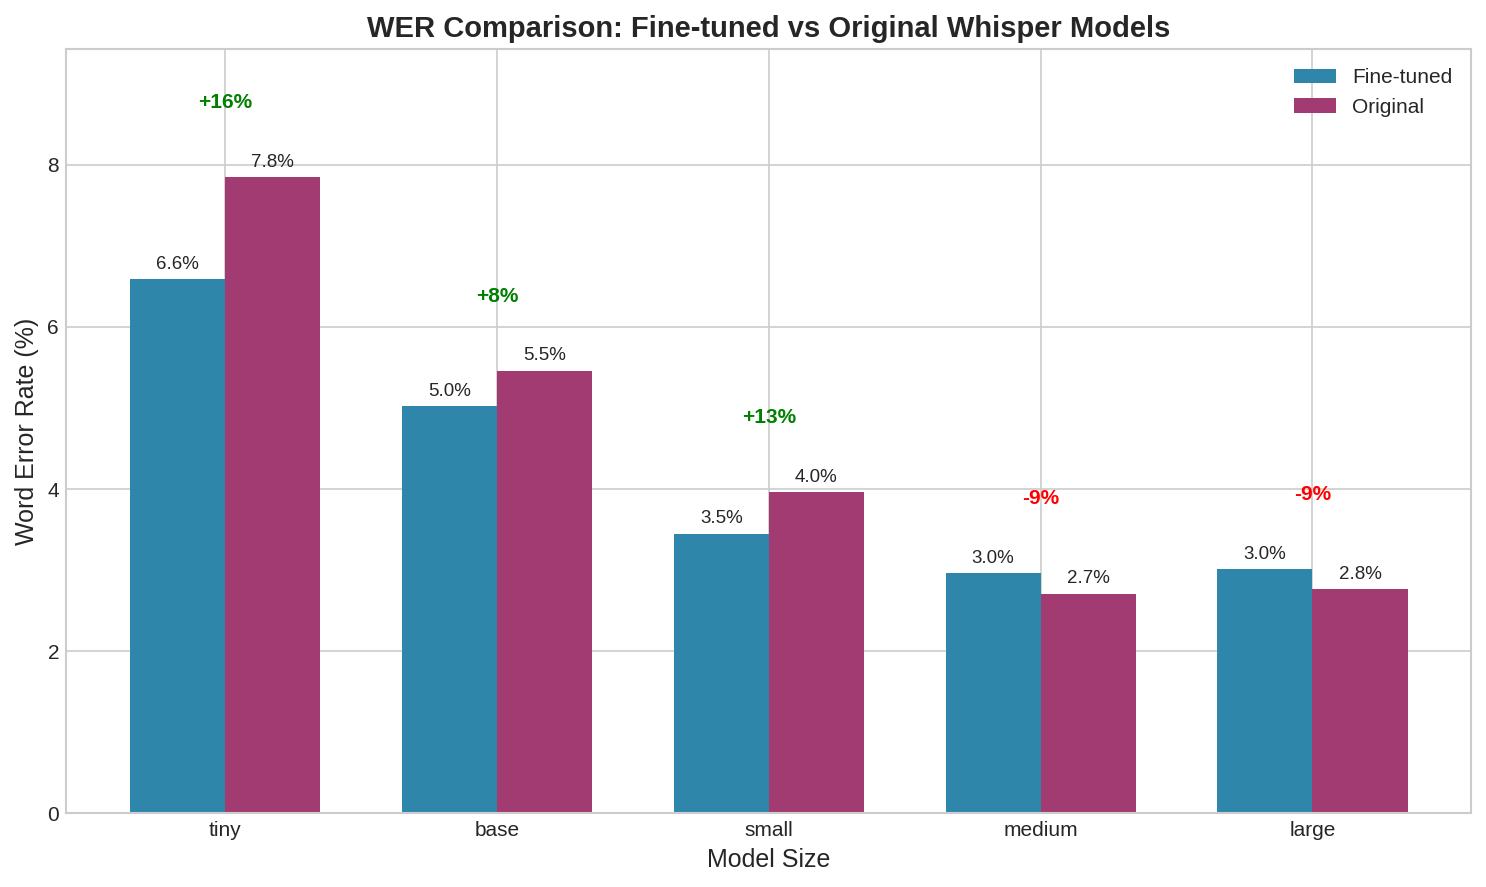
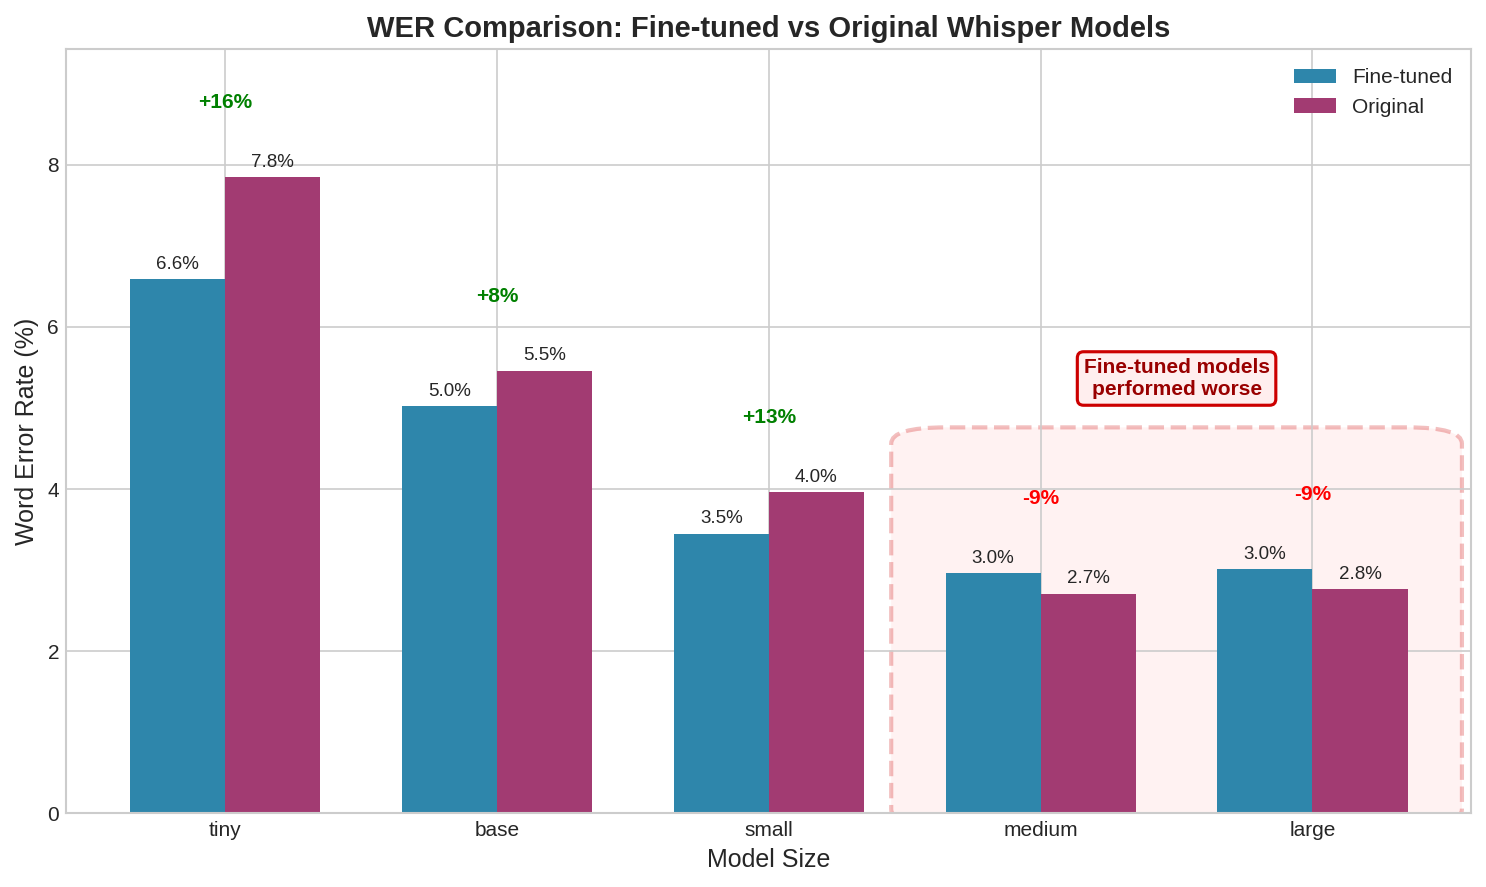
commit

Changed region(s): [[0.6191, 0.3957, 0.9596, 0.487]]

diff --git a/scripts/create_visualizations.py b/scripts/create_visualizations.py
@@ -72,6 +72,35 @@ def create_wer_comparison():
                     ha='center', va='bottom', fontsize=10,
                     fontweight='bold', color=color)
 
+    # Add highlight box over medium and large models (indices 3 and 4)
+    from matplotlib.patches import FancyBboxPatch
+
+    # Calculate box position (spanning medium and large)
+    box_left = 3 - width - 0.15
+    box_right = 4 + width + 0.15
+    box_width = box_right - box_left
+    box_height = max(finetune_wer[3:5] + original_wer[3:5]) + 1.8
+
+    # Add semi-transparent highlight box
+    highlight_box = FancyBboxPatch(
+        (box_left, -0.1), box_width, box_height,
+        boxstyle="round,pad=0.05,rounding_size=0.2",
+        facecolor='#FFCCCC', edgecolor='#CC0000',
+        alpha=0.25, linewidth=2, linestyle='--',
+        zorder=0
+    )
+    ax.add_patch(highlight_box)
+
+    # Add annotation text above the highlight box
+    ax.annotate(
+        'Fine-tuned models\nperformed worse',
+        xy=((3 + 4) / 2, box_height + 0.3),
+        ha='center', va='bottom', fontsize=10,
+        fontweight='bold', color='#990000',
+        bbox=dict(boxstyle='round,pad=0.3', facecolor='#FFEEEE',
+                  edgecolor='#CC0000', linewidth=1.5)
+    )
+
     plt.tight_layout()
     plt.savefig(output_dir / 'wer_comparison.png', dpi=150, bbox_inches='tight')
     plt.close()
